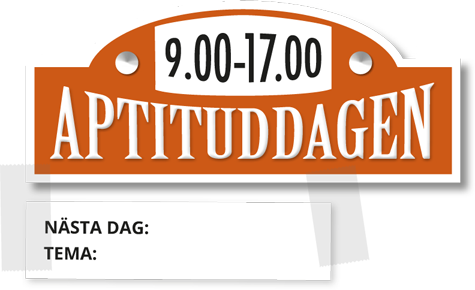
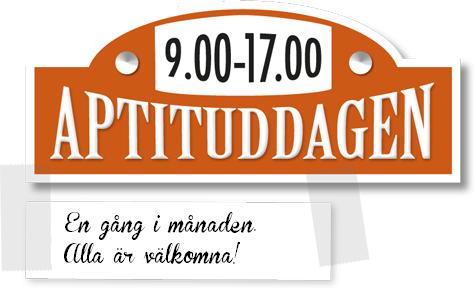
Uppdaterat med Jfokus logga mm

Changed region(s): [[0.0884, 0.7138, 0.5305, 0.8379], [0.0884, 0.8379, 0.5011, 0.931]]

diff --git a/index.html b/index.html
@@ -20,7 +20,7 @@
 
 <div id="viewport">
 
-<div id="calendarPage" class="aptitud-page" data-column="0" data-row="0" data-bookmark="kalender" style="background: #FF0096; text-align:center">
+<div id="calendarPage" class="aptitud-page" data-column="0" data-row="0" data-bookmark="kalender" style="background: #FEBE10; text-align:center">
     <img class="page-header" src="./images/kalender.png"></img>
 		<a href="http://usergroup.se" target="new">
 			 <img id="calendar-thx-image" src="./images/TackUserGroup.png" >
@@ -29,10 +29,11 @@
 </div>
 
 <div id="startPage" class="aptitud-page" data-column="0" data-row="1" data-bookmark="hem" style="background: #EE5555; text-align: center; vertical-align: middle;">
-
+<!--
     <img class="home-image" id="start-klotter" src="images/home/klotter.png" />
+-->
     
-		<img class="home-image" id="start-logo" src="images/home/aptitudlogo.png" />
+    <img class="home-image" id="start-logo" src="images/home/aptitudlogo.png" />
     
     <a href="#blogg">
         <div id="start-blog">
@@ -41,26 +42,27 @@
         </div>
     </a>
 
+    <!--
     <a href="#vi">
         <img class="home-image" id="start-we" src="images/home/vi.png" />
     </a>
-
+-->
     <a href="javascript:void(0)" onclick="launchTour();">
         <img class="home-image" id="start-30sek" src="images/home/30sek.png" />
     </a>
 
     <a href="#kalender">
-			 <div id="start-calendar">
-			 			<div id="start-calendar-preview">
-						</div>
-       			<img src="images/home/kalender.png" style="width: 100%;" />
-			 </div
+                        <div id="start-calendar">
+                                               <div id="start-calendar-preview">
+                                               </div>
+                       <img src="images/home/kalender.png" style="width: 100%;" />
+                        </div
     </a>
 
     <a href="#aptituddagen">
 			 <div id="start-aptitud-day">
-            <div id="start-aptitud-day-date-preview">5 Oktober</div>
-            <div id="start-aptitud-day-theme-preview">To be decided...</div>
+            <div id="start-aptitud-day-date-preview"></div>
+            <div id="start-aptitud-day-theme-preview"></div>
 						<img src="images/home/aptituddagen.png" style="width: 100%;" />
 						
 			</div>
@@ -68,6 +70,9 @@
 
     <a href="http://oredev.org/2012/partners" target="new">
         <img class="home-image" id="start-oredev" src="images/home/oredev.png" />
+    </a>
+    <a href="www.jfokus.se" target="new">
+        <img class="home-image" id="start-jfokus" src="images/home/jfokus.png" />
     </a>
 		
 		<a href="http://www.linkedin.com/company/2660293" target="new">
@@ -112,7 +117,7 @@
 </div>
 
 <div id="blogPage" class="aptitud-page" data-column="0" data-row="2" data-bookmark="blogg" style="background: #3399CC; text-align: center;">
-    <img src="images/blogg.png" class="page-header" />
+    <img src="images/2blogg.png" id="blog-header"  />
 
     <div id="blog-text" class="blog">
         <div id="posts"></div>

diff --git a/aptitud.css b/aptitud.css
@@ -207,41 +207,45 @@ img.button, .home-button {
 
 #calendar-thx-image {
 		position: absolute;								
-		left: 46%; 
-		top: 75%; 
-		width:13%;
+		left: 1%; 
+		top: 1%; 
+		width:20%;
 		z-index: 1; 
 		}			
 		
 
 @media all and (orientation:landscape) { 
-    #start-blog { left: 10%; top: 50%; width: 17%; }
+    #start-blog { left: 2%; top: 50%; width: 17%; }
     #start-30sek { left: 49%; top: 17%; height: 14%; }
     #start-logo { left: 30%; top: 25%; width: 40%; }
     #start-calendar { left: 75%; top: 3%; width: 21%; }
-    #start-aptitud-day { left: 0%; top: 17%; width: 29%;}
+    #start-aptitud-day { left: 5%; top: 8%; width: 25%;}
     #start-oredev { left: 66%; top: 72%; width: 18%; }
+    #start-jfokus { left: 22%; top: 60%; width: 15%; }
 /*    #start-benice { left: 88%; top: 68%; width: 12%;z-index:101; } */
     #start-we { left: 60%; top: 14%; width: 8%; }
     #start-fb { left: 45%; top: 85%; width: 3%; }
     #start-twitter { left: 50%; top: 86%; width: 3%; }
     #start-linkedin { left: 55%; top: 84%; width: 3%; }
-		#start-klotter { left: 25%; top: 1%; width: 15%; }
+    #blog-header {width:30%;margin-top: 7%; margin-bottom: 2%;}
+/*    #start-klotter { left: 25%; top: 1%; width: 15%; } */
 }
 
 @media all and (orientation:portrait) {
-    #start-blog { left: 10%; top: 58%; width: 38%; }
+    #start-blog { left: 5%; top: 58%; width: 38%; }
     #start-logo { left: 30%; top: 38%; width: 40%; }
     #start-30sek { left: 45%; top: 32%; height: 8%; }
     #start-calendar { left: 68%; top: 5%; width: 35%; }
-    #start-aptitud-day { left: 1%; top: 15%; width: 50%; }
+    #start-aptitud-day { left: 1%; top: 5%; width: 50%; }
     #start-oredev { left: 65%; top: 65%; width: 30%; }
+    #start-jfokus { left: 45%; top: 65%; width: 20%; }
 /*   #start-benice { left: 80%; top: 55%; width: 20%; } */
     #start-we { left: 54%; top: 29%; width: 13%; }
-		#start-fb { left: 10%; top: 45%; width: 5%; }
+    #start-fb { left: 10%; top: 45%; width: 5%; }
     #start-twitter { left: 16%; top: 46%; width: 5%; }
     #start-linkedin { left: 22%; top: 44%; width: 5%; }
-		#start-klotter { left: 28%; top: 1%; width: 25%; }
+ /*   #start-klotter { left: 28%; top: 1%; width: 25%; } */
+   #blog-header {width:30%;margin-top: 7%; margin-bottom: 2%;}
 }
 
 /*#start-blog { max-width: 15%; max-height: 60%;}
